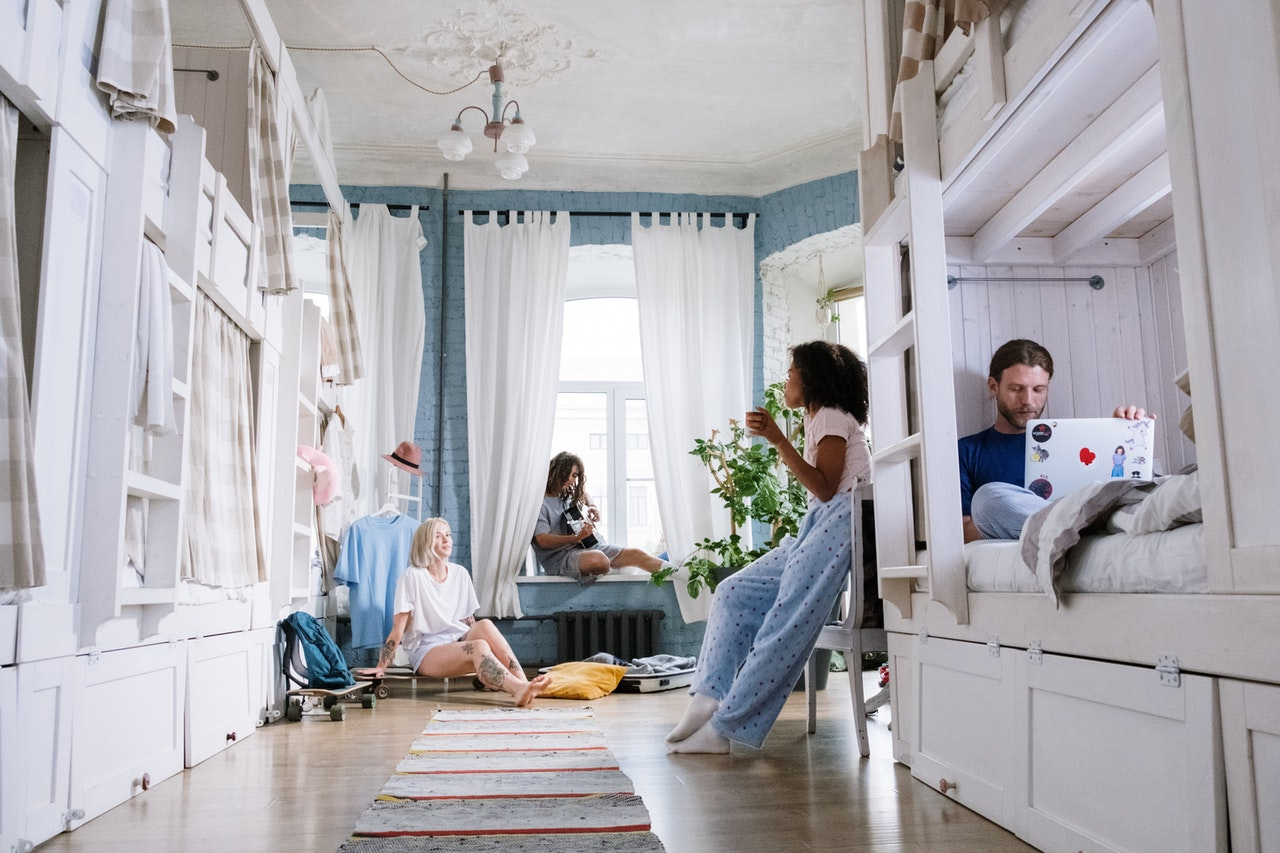
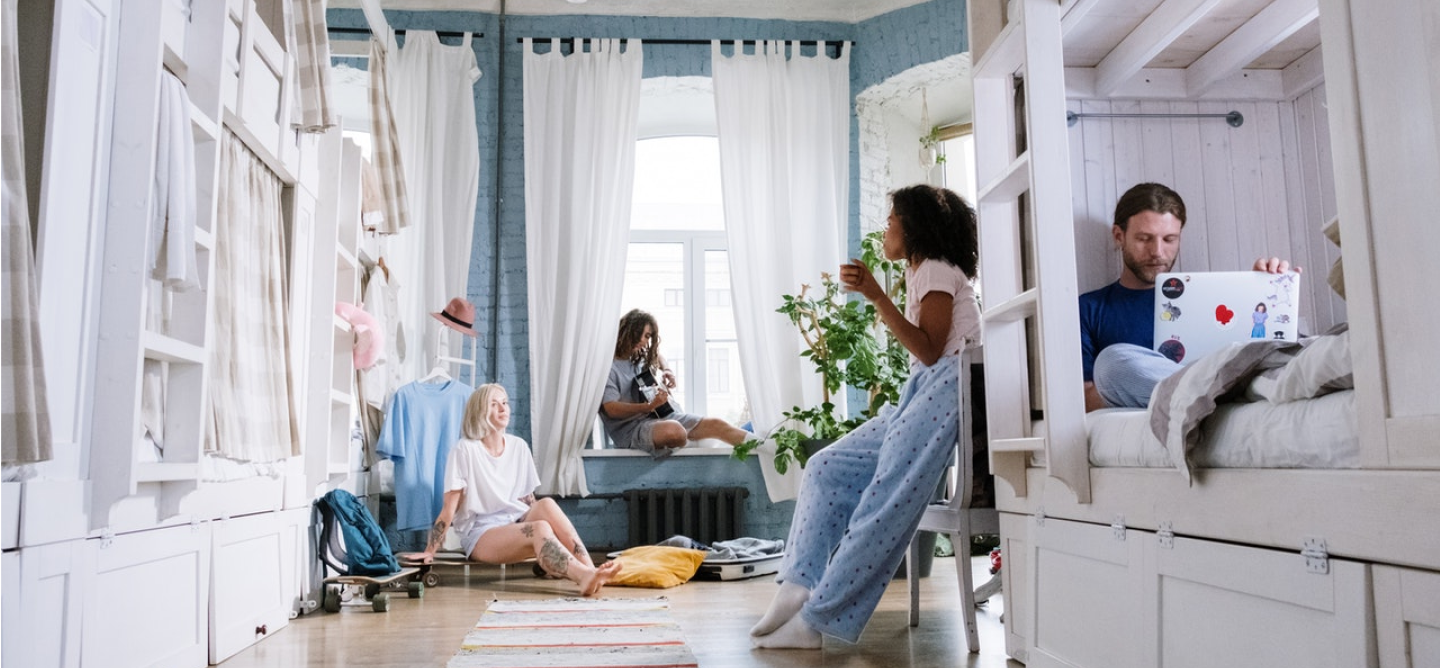
Cabeçalho e destaque prontos versão desktop.

diff --git a/css/estilos.css b/css/estilos.css
@@ -5,50 +5,71 @@
     --logo-branco: white;
 }
 
-html {
-    /* overflow-x: hidden; */
-}
-
 body {
     font-family: 'Montserrat', sans-serif;
     /* estou usando roboto condensed? */
     /* font-family: 'Roboto Condensed', sans-serif; */
 }
 
-header {
-    color: var(--logo-cinza-texto);
-    background-color: var(--logo-azul-escuro);
-    width: 100%;
+/* CABEÇALHO */
 
-    /* box-sizing: border-box; */
+header{
+    background-color: var(--logo-azul-escuro);
+}
+
+.menu-cabecalho {
+    color: var(--logo-cinza-texto);
+    width: auto;
+
 
     display: flex;
-    flex-direction: column;
-    align-items: center;
+    flex-direction: row; 
 
-    padding: 1rem 0;
-
-    /* position: absolute; */
+    padding: 0 1rem;
 }
 
 .logo-cabecalho {
+    display: flex;
+    justify-content: center;
+    
     width: 100vw;
 }
 
 .menu-cabecalho-elmtos {
-    /* display: flex; */
-    /* flex-direction: row; */
     text-align: center;
 }
 
 .menu-cabecalho-elmto {
     display: inline-block;
 
-    margin: 1rem 1rem;
+    margin: .7rem .5rem;
 
     font-weight: 500;
     font-size: 1.2rem;
     /* Ver, no final, se vale a pena deixar em 1.5rem */
+}
+
+@media screen and (min-width: 1000px) {
+
+    .logo-cabecalho {
+        width: 300px;
+    
+        display: block;
+        padding: 0 1rem;
+    }
+
+    .menu-cabecalho {
+        position: absolute;
+        width: 80vw;
+        justify-content: flex-end;
+
+        margin: -4rem 0 0 10rem;
+    }
+
+    .menu-cabecalho-elmto {
+        font-weight: 800;
+    }
+
 }
 
 /* DESTAQUE */
@@ -74,6 +95,41 @@ header {
 .destaque-img {
     padding: 1.5rem 0;
     width: 95vw;
+}
+
+.destaque-img-desktop {
+    display: none;
+}
+
+@media screen and (min-width: 1000px) {
+
+    .destaque {
+        padding: 0;
+    }
+
+    .destaque-img{
+        display: none;
+    }
+
+    .destaque-img-desktop {
+        display: flex;
+        width: 100vw;
+    }
+
+    .destaque-titulo {
+        position: absolute;
+        margin-top: 4rem;
+        
+        padding: 1rem 0 1rem 4rem;
+
+        width: 500px;
+        font-weight: 600;
+        letter-spacing: 2px;
+
+        background-color: #ffffff;
+        opacity: .90;
+        border-radius: 0 10px 10px 0;
+    }
 }
 
 /* QUEM SOMOS */

diff --git a/index.html b/index.html
@@ -37,6 +37,7 @@
     <section class="destaque">
         <h1 class="destaque-titulo">Começar a <strong class="destaque-strong">morar sozinho não é fácil</strong>, mas <strong class="destaque-strong">a gente te ajuda</strong></h1>
         <img src="imgs/destaque-mobile.png" alt="mosaico com 4 fotos, 2 de grupos de pessoas reúnidas cada grupo em suas casas e 2 de pessoas estudando sozinhas" class="destaque-img">
+        <img src="imgs/destaque-desktop2.png" alt="Foto de um quarto claro com um grupo de 4 pessoas conversando e estudando." class="destaque-img-desktop">
     </section>
 
     <!-- SESSÃO QUEM SOMOS -->

diff --git a/css/icones.css b/css/icones.css
@@ -4,6 +4,8 @@
     margin: 5px 2px;  
     font-size: 30px;  
     width: 30px;  
+
+    border-radius: 10px;
 }  
 .fa-facebook {  
     background: #3B5998;  
@@ -17,8 +19,4 @@
 .fa-instagram {  
     background: #f48322;  
     color: white;  
-}  
-
-.fa:hover {  
-    opacity: 0.9;  
 }  
